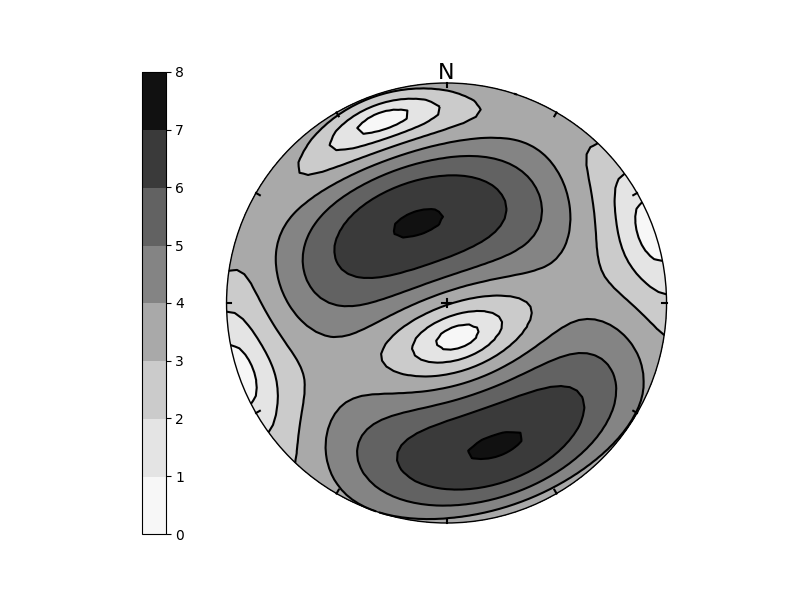
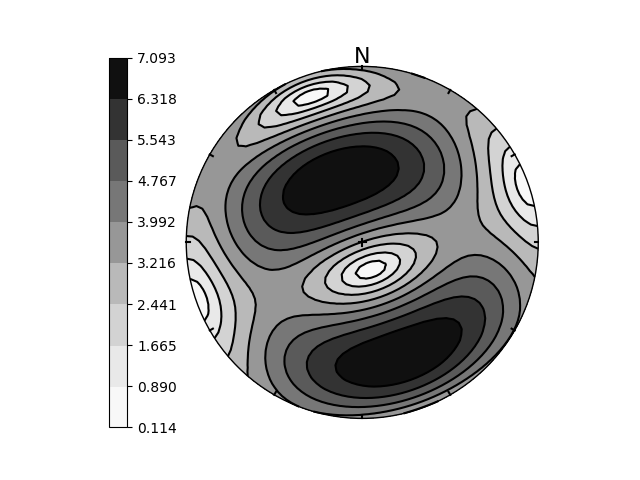
stress tensor implemented
module strain renamed to tensors

Changed region(s): [[0.1562, 0.0938, 0.8438, 0.9062]]

diff --git a/apsg/tensors.py b/apsg/tensors.py
@@ -3,7 +3,7 @@
 from __future__ import division, print_function
 
 import numpy as np
-from .core import Vec3, Group, Pair
+from .core import Vec3, Group, Pair, Fault
 from .helpers import sind, cosd
 
 __all__ = ['DefGrad', 'VelGrad']
@@ -128,7 +128,7 @@ class DefGrad(np.ndarray):
 
 
 class VelGrad(np.ndarray):
-    """class to store  velocity gradient tensor derived from numpy.ndarray
+    """class to store velocity gradient tensor derived from numpy.ndarray
     """
     def __new__(cls, array):
         # casting to our class
@@ -164,3 +164,111 @@ class VelGrad(np.ndarray):
     def defgrad(self, time=1):
         from scipy.linalg import expm
         return DefGrad(expm(self * time))
+
+
+class Stress(np.ndarray):
+    """class to store stress tensor derived from numpy.ndarray
+    """
+    def __new__(cls, array):
+        # casting to our class
+        assert np.shape(array) == (3, 3), 'Stress must be 3x3 2D array'
+        obj = np.asarray(array).view(cls)
+        return obj
+
+    def __repr__(self):
+        return 'Stress:\n' + str(self)
+
+    def __pow__(self, n):
+        # matrix power
+        return np.linalg.matrix_power(self, n)
+
+    def __eq__(self, other):
+        # equal
+        return bool(np.sum(abs(self - other)) < 1e-14)
+
+    def __ne__(self, other):
+        # not equal
+        return not self == other
+
+    @classmethod
+    def from_comp(cls,
+                  xx=0, xy=0, xz=0,
+                  yx=0, yy=0, yz=0,
+                  zx=0, zy=0, zz=0):
+        return cls([
+            [xx, xy, xz],
+            [yx, yy, yz],
+            [zx, zy, zz]])
+
+    def rotate(self, vector, theta):
+        R = DefGrad.from_axis(vector, theta)
+        return R * self * R.T
+
+    @property
+    def eigenvals(self):
+        vals, _ = np.linalg.eig(self)
+        return tuple(vals)
+
+    @property
+    def E1(self):
+        """Max eigenvalue"""
+        return self.eigenvals[0]
+
+    @property
+    def E2(self):
+        """Middle eigenvalue"""
+        return self.eigenvals[1]
+
+    @property
+    def E3(self):
+        """Min eigenvalue"""
+        return self.eigenvals[2]
+
+    @property
+    def eigenvects(self):
+        _, U = np.linalg.eig(self)
+        return Group([Vec3(U.T[0]),
+                      Vec3(U.T[1]),
+                      Vec3(U.T[2])])
+
+    @property
+    def eigenlins(self):
+        return self.eigenvects.aslin
+
+    @property
+    def eigenfols(self):
+        return self.eigenvects.asfol
+
+    def cauchy(self, n):
+        """Return stress vector associated with plane given by normal vector
+
+        Args:
+          n: normal given as ``Vec3`` or ``Fol`` object
+
+        """
+        return Vec3(np.dot(self, n))
+
+    def fault(self, n):
+        """Return ``Fault`` object derived from given by normal vector
+
+        Args:
+          n: normal given as ``Vec3`` or ``Fol`` object
+
+        """
+        return Fault.from_vecs(*self.stress_comp(n))
+
+    def stress_comp(self, n):
+        """Return normal and shear stress ``Vec3`` components on plane given by normal vector"""
+        t = self.cauchy(n)
+        sn = t.proj(n)
+        return sn, t - sn
+
+    def normal_stress(self, n):
+        """Return magnitude of normal stress component on plane given by normal vector"""
+        sn, tau = self.stress_comp(n)
+        return abs(sn)
+
+    def shear_stress(self, n):
+        """Return magnitude of shear stress component on plane given by normal vector"""
+        sn, tau = self.stress_comp(n)
+        return abs(tau)

diff --git a/apsg/core.py b/apsg/core.py
@@ -166,7 +166,7 @@ class Vec3(np.ndarray):
           >>> u.transform(F)
 
         See Also:
-          ``strain.DefGrad``
+          ``tensors.DefGrad``
 
         """
         return np.dot(F, self).view(type(self))
@@ -425,7 +425,7 @@ class Fol(Vec3):
           >>> f.transform(F)
 
         See Also:
-          ``strain.DefGrad``
+          ``tensors.DefGrad``
 
         """
         return np.dot(self, np.linalg.inv(F)).view(type(self))
@@ -573,7 +573,7 @@ class Pair(object):
           >>> p.transform(F)
 
         See Also:
-          ``strain.DefGrad``
+          ``tensors.DefGrad``
 
         """
         t = deepcopy(self)
@@ -617,6 +617,21 @@ class Fault(Pair):
         data = getattr(fol, settings['notation']) + lin.dd + (sense,)
         return cls(*data)
 
+    @classmethod
+    def from_vecs(cls, fvec, lvec):
+        """Create ``Fault`` from two ortogonal ``Vec3`` objects
+        
+        Args:
+          fvec: vector normal to fault plane
+          lvec: vector parallel to movement
+
+        """
+        orax = fvec**lvec
+        rax = Vec3(*fvec.aslin.dd)**Vec3(*lvec.dd)
+        sense = 1 - 2 * (orax == rax)
+        data = getattr(fvec.asfol, settings['notation']) + lvec.dd + (sense,)
+        return cls(*data)
+
     def rotate(self, axis, phi):
         """Rotates ``Fault`` by `phi` degrees about `axis`.
 
@@ -639,7 +654,7 @@ class Fault(Pair):
     def sense(self):
         """Return sense of movement (+/-1)."""
         # return 2 * int(self.fvec**self.lvec == Vec3(self.fol**self.lin)) - 1
-        orax = self.fvec**self.lvec
+        orax = self.fvec.uv**self.lvec.uv
         rax = Vec3(*self.fol.aslin.dd)**Vec3(*self.lin.dd)
         return 2 * (orax == rax) - 1
 

diff --git a/apsg/__init__.py b/apsg/__init__.py
@@ -7,7 +7,7 @@ from .core import (Vec3, Fol, Lin, Pair, Fault,
                    Group, PairSet, FaultSet,
                    Ortensor, Cluster, StereoGrid, G)
 from .plotting import StereoNet, FabricPlot
-from .strain import DefGrad, VelGrad
+from .tensors import DefGrad, VelGrad, Stress
 from .db import SDB
 from .helpers import sind, cosd, tand, acosd, asind, atand, atan2d
 

diff --git a/docs/tutorial.rst b/docs/tutorial.rst
@@ -399,21 +399,18 @@ Internally it is used for plotting contour diagrams, but it exposes
 function. Function must accept three element ``numpy.array`` as first
 argument passed from grid points of ``StereoGrid``.
 
-Following example defines function to calculate resolved shear stress on
-plane from given stress tensor. ``StereoGrid`` is used to calculate this
-value over all directions and finally values are plotted by ``StereoNet``::
+Following example shows how to plot resolved shear stress on
+plane from given stress tensor. ``StereoGrid.apply_func`` method is used
+to calculate this value over all directions and finally values are
+plotted by ``StereoNet``::
 
-    >>> # user-defined function to calculate resolved shear stress
-    >>> def resolved_shear_stress(n, sig):
-    >>>     t = Vec3(S.dot(n))
-    >>>     return abs(t - t.proj(n))
-    >>>
-    >>> # stress tensor
-    >>> S = np.array([[-10, 2, -3],[2, -5, 1], [-3, 1, 2]])
-    >>> # now we create StereoGrid and apply function on it
+    >>> S = Stress([[-10, 2, -3],[2, -5, 1], [-3, 1, 2]])
     >>> d = StereoGrid()
-    >>> d.apply_func(resolved_shear_stress, S)
-    >>> StereoNet(d)
+    >>> d.apply_func(S.shear_stress)
+    >>> s = StereoNet()
+    >>> s.contourf(d, 10, legend=True)
+    >>> s.contour(d, 10, colors='k')
+    >>> s.show()
 
 .. image:: _static/images/figure_9.png
 

diff --git a/HISTORY.rst b/HISTORY.rst
@@ -121,10 +121,10 @@ Changes
 * StereoNet accepts StereoGrid and Ortensor as quick plot arguments
 * StereoNet instance has axtitle method to put text below stereonet
 
-0.4.1 (03 Jan 2017)
+0.4.1-2 (03 Jan 2017)
 ~~~~~~~~~~~~~~~~~~~
 * bugfix
 
-0.4.2 (XX YYY 2017)
+0.4.3 (XX YYY 2017)
 ~~~~~~~~~~~~~~~~~~~
-*
+* Stress tensor with few basic methods implemented
